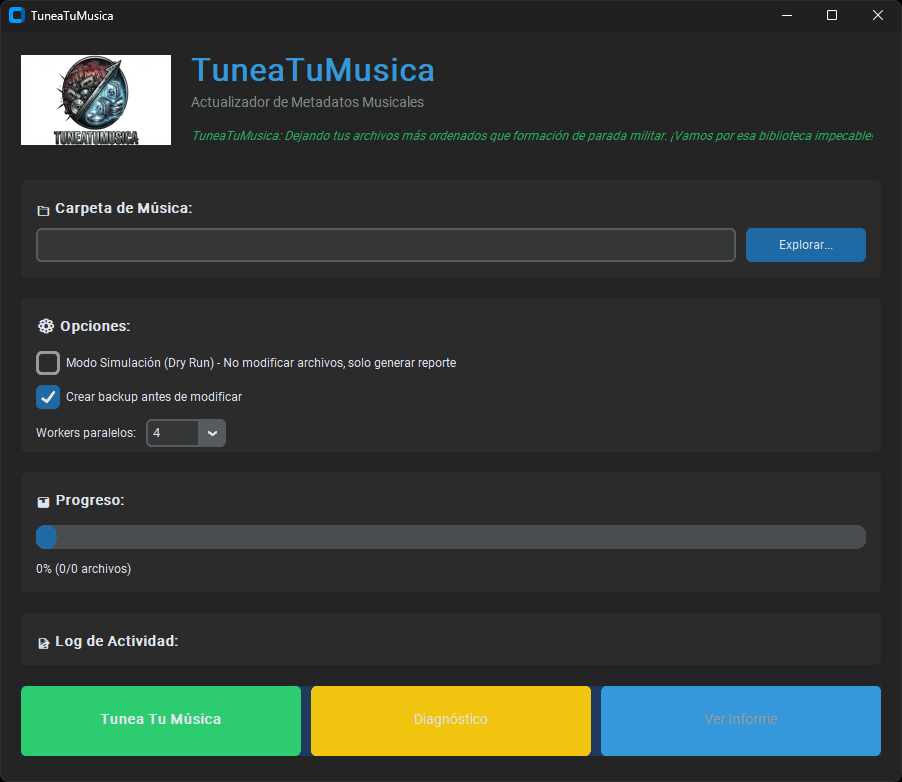
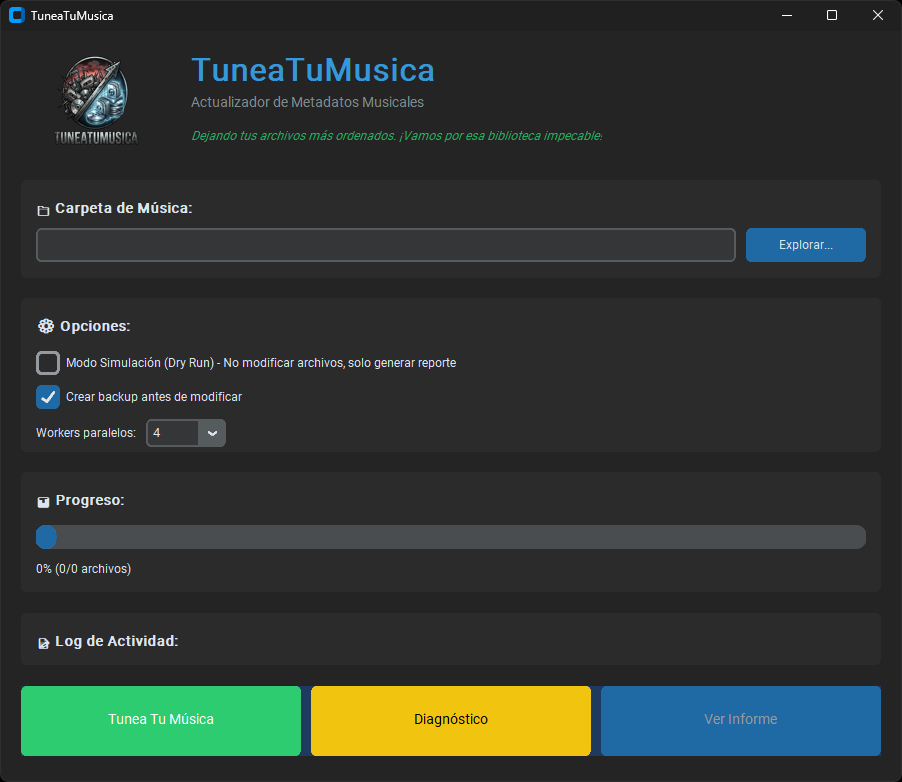
Fix: GUI, nueva versión

diff --git a/index.html b/index.html
@@ -55,7 +55,7 @@
   <header>
     <div class="container">
       <div style="display: flex; justify-content: space-between; align-items: start; margin-bottom: 2rem;">
-        <img src="img/TuneaTuMusica_Logo_SF.png" alt="TuneaTuMusica Logo" style="width: 150px; height: auto;" />
+        <img src="img/TuneaTuMusica_Logo_SF.png?v=2026-02-19_1" alt="TuneaTuMusica Logo" style="width: 150px; height: auto;" />
         <span class="hero-badge" style="margin: 0;">Open Source 🚀 v1.0.0</span>
       </div>
       <h1>Nombres Claros.<br>Biblioteca en Orden.</h1>
@@ -68,7 +68,7 @@
       </div>
 
       <div class="gui-showcase" style="margin-top: 4rem; position: relative; z-index: 10;">
-        <img src="img/TuneaTuMusica_GUI.png" alt="Interfaz Gráfica de TuneaTuMusica" style="width: 100%; max-width: 900px; border-radius: 20px; border: 1px solid var(--glass-border); box-shadow: 0 30px 60px -12px rgba(0,0,0,0.5); filter: drop-shadow(0 0 20px rgba(99, 102, 241, 0.2));">
+        <img src="img/TuneaTuMusica_GUI.png?v=2026-02-19_1" alt="Interfaz Gráfica de TuneaTuMusica" style="width: 100%; max-width: 900px; border-radius: 20px; border: 1px solid var(--glass-border); box-shadow: 0 30px 60px -12px rgba(0,0,0,0.5); filter: drop-shadow(0 0 20px rgba(99, 102, 241, 0.2));">
         <p style="margin-top: 1.5rem; color: var(--text-dim); font-size: 0.9rem; font-style: italic;">Visualización de la Interfaz Moderna (v1.0.0)</p>
       </div>
     </div>

diff --git a/web.html b/web.html
@@ -53,7 +53,7 @@
     <!-- Header -->
     <header class="flex flex-col md:flex-row justify-between items-center gap-6">
       <div class="flex items-center gap-6">
-        <img src="img/TuneaTuMusica_Logo_SF.png" alt="Logo" class="w-32 h-auto" />
+        <img src="img/TuneaTuMusica_Logo_SF.png?v=2026-02-19_1" alt="Logo" class="w-32 h-auto" />
         <div class="text-center md:text-left">
           <h1 class="text-4xl font-bold text-white tracking-tight">TuneaTuMusica <span class="text-indigo-400">Web</span></h1>
           <p class="text-slate-400 font-medium">Edición Sin Instalación • Privacidad Local</p>

diff --git a/gui.py b/gui.py
@@ -163,7 +163,7 @@ class TuneaTuMusicaGUI:
         # Mensaje de bienvenida (Slogan)
         self.welcome_label = ctk.CTkLabel(
             self.info_frame,
-            text="TuneaTuMusica: Dejando tus archivos más ordenados que formación de parada militar. ¡Vamos por esa biblioteca impecable!",
+            text="Dejando tus archivos más ordenados. ¡Vamos por esa biblioteca impecable!",
             font=ctk.CTkFont(size=12, slant="italic"),
             text_color="#27ae60"
         )
@@ -288,10 +288,11 @@ class TuneaTuMusicaGUI:
         self.start_btn = ctk.CTkButton(
             self.buttons_frame,
             text="Tunea Tu Música",
-            font=ctk.CTkFont(size=14, weight="bold"),
+            font=ctk.CTkFont(size=14),
             height=45,
             fg_color="#2ecc71",
             hover_color="#27ae60",
+            text_color="#ffffff",
             command=self._iniciar_proceso
         )
         self.start_btn.pack(side="left", expand=True, fill="both", padx=(0, 5))
@@ -304,17 +305,16 @@ class TuneaTuMusicaGUI:
             height=45,
             fg_color="#f1c40f",
             hover_color="#f39c12",
+            text_color="#000000",
             command=self._run_sandbox_tests
         )
         self.diagnostico_btn.pack(side="left", expand=True, fill="both", padx=(5, 5))
-
+ 
         self.open_report_btn = ctk.CTkButton(
             self.buttons_frame,
             text="Ver Informe",
             font=ctk.CTkFont(size=14),
             height=45,
-            fg_color="#3498db",
-            hover_color="#2980b9",
             state="disabled",
             command=self._abrir_reporte
         )
